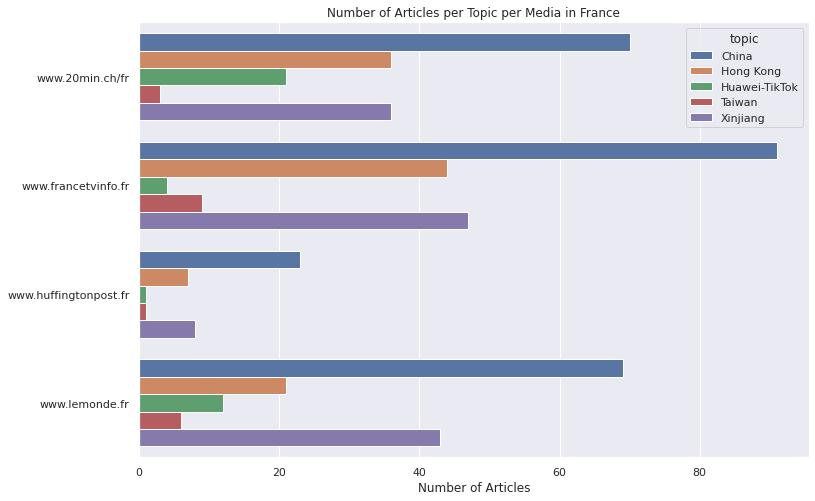
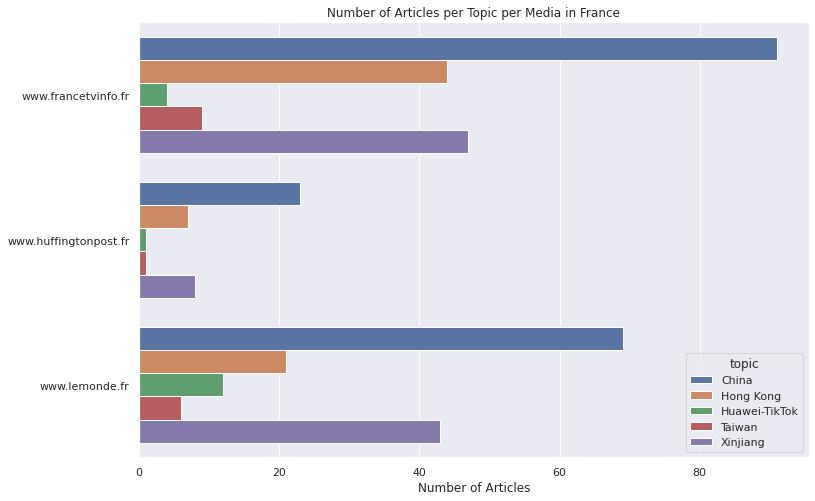
update topic coverage

Changed region(s): [[0.0, 0.0599, 0.9816, 0.8982], [0.8282, 0.7186, 0.9816, 0.8982]]

diff --git a/France-analysis.md b/France-analysis.md
@@ -1,0 +1,17 @@
+# France Analysis
+
+Regrettably we are only able to analyze three media in France.
+
+Our results for France appear to be particularly limited by our over-optimization of the phrase lists for English.
+
+The relative attention give to each topic per media is:
+
+![](/topic_coverage/France-per_media.jpg?raw=true)
+
+Xinjiang and Hong Kong are preferred over Taiwan and Huawei in this sample.
+
+Xinjiang and the protests in Hong Kong have been quite 
+covered in France, largely contributing to the degradation of China's image,
+
+The only topics for which we see any aligned phrases are Taiwan and Xinjiang.
+The counts are very low, and are accounted for by quoting PRC state media.

diff --git a/Spain-analysis.md b/Spain-analysis.md
@@ -1,0 +1,9 @@
+# Spain Analysis
+
+## Topics
+
+The relative attention give to each topic per media is:
+
+![](/topic_coverage/Spain-per_media.jpg?raw=true)
+
+
